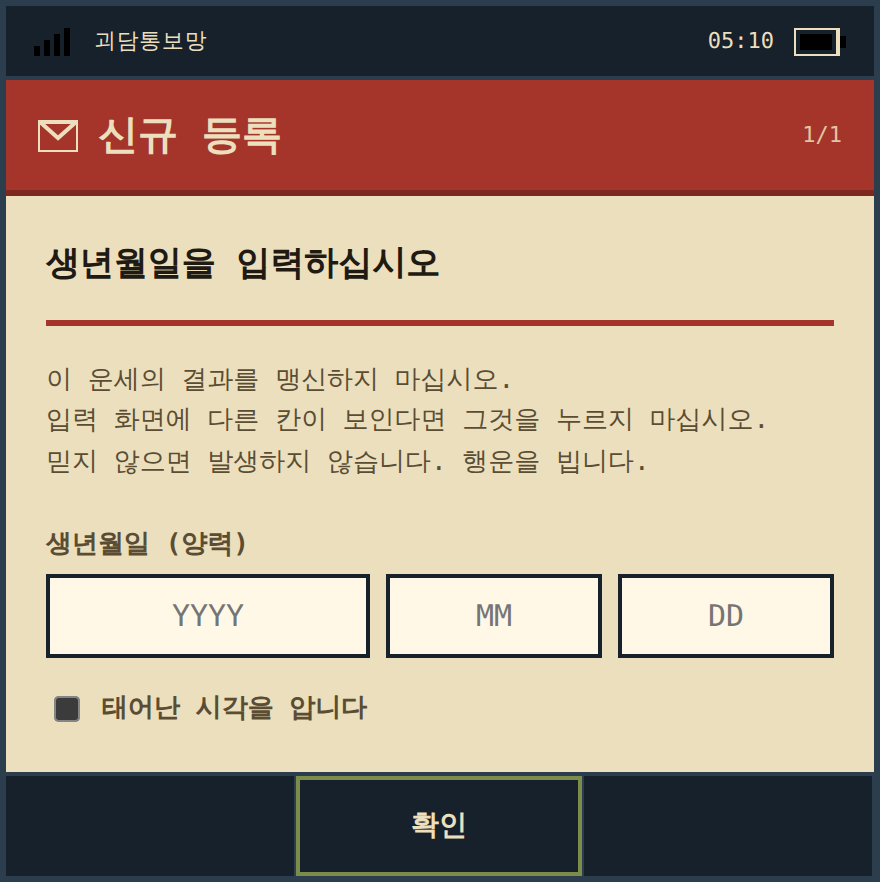
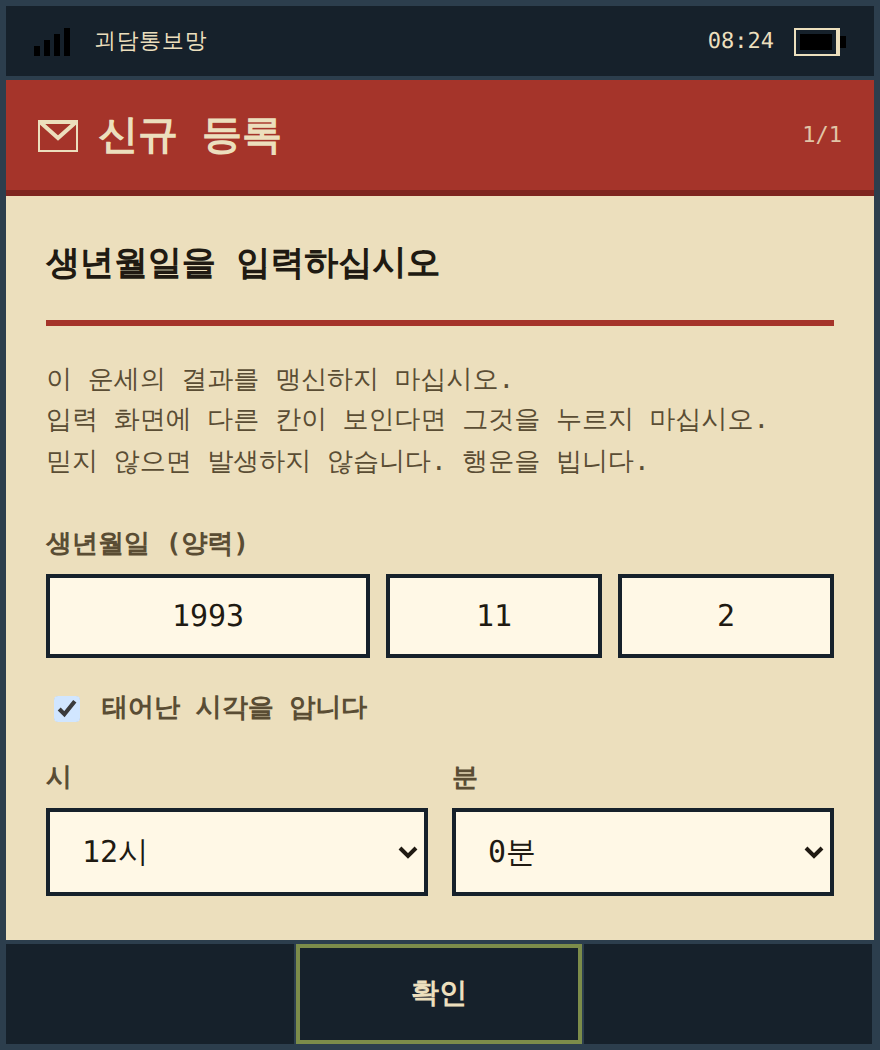
fix(creepypasta-story): 이미지 크기·순서 조정, 이스터에그 밝기 보정
- "운세를 괴담의 규칙으로" annotation 이미지가 너무 커서 그리드 폭을
  340px로 고정해 축소
- 히어로 티저 이미지를 키우고, 모바일에서는 CTA 버튼(서비스 보기)
  보다 위에 오도록 grid-template-areas로 순서 재배치
  (버튼을 .creepy-hero-copy 밖으로 꺼내 별도 grid 영역으로 분리)
- 입력 화면 스크린샷을 "태어난 시각을 압니다" 체크 상태로 다시
  캡처 — 시/분 선택 UI가 실제로 보이게 하고 캡션 내용과 화면을
  일치시킴 (부수 효과로 세로 길이도 늘어남)
- 이스터에그 스크린샷 재캡처: 이전 캡처가 실제 앱의 2초 페이드인
  애니메이션 도중(약 0.6초 시점)에 찍혀 있어 텍스트가 어둡게
  나왔던 버그를 발견해 수정. 애니메이션이 끝난 뒤 캡처하니 실제
  색상(#eee)이 나옴 — 여기에 더해 제작기 페이지에서만
  filter:brightness(1.2)를 얹어 카드에서 더 잘 보이도록 함
  (실제 서비스 코드는 변경 없음)
- 같은 캡처를 세로로 더 길게 잘라 입력·결과 화면과 카드 높이가
  비슷해지도록 조정

diff --git a/assets/creepypasta-story.css b/assets/creepypasta-story.css
@@ -3,13 +3,18 @@
    ============================================================ */
 
 .main #creepyIntro { padding-top: 72px; padding-bottom: 84px; }
-.creepy-hero { display:grid; grid-template-columns:minmax(0,1.15fr) minmax(260px,.85fr); gap:40px; align-items:center; }
-.creepy-hero-copy { max-width:640px; }
+.creepy-hero {
+  display:grid;
+  grid-template-columns:minmax(0,1fr) minmax(300px,1fr);
+  grid-template-areas:"copy teaser" "actions teaser";
+  gap:16px 40px; align-items:center;
+}
+.creepy-hero-copy { grid-area:copy; max-width:640px; }
+.creepy-hero-actions { grid-area:actions; margin-top:14px; }
 body[data-page="creepypasta"] .hero-sub { max-width:600px; }
 .creepy-hero-copy .hero-title { margin-top:14px; font-size:clamp(42px,3.8vw,60px); line-height:1.08; }
 .creepy-kicker { font-size:clamp(22px,2.3vw,31px); font-weight:800; line-height:1.4; letter-spacing:-.03em; }
-.creepy-hero-actions { margin-top:30px; }
-.creepy-hero-teaser { border-radius:20px; overflow:hidden; box-shadow:0 24px 50px rgba(25,31,31,.16); transform:rotate(1deg); }
+.creepy-hero-teaser { grid-area:teaser; border-radius:20px; overflow:hidden; box-shadow:0 24px 50px rgba(25,31,31,.16); transform:rotate(1deg); }
 .creepy-hero-teaser img { width:100%; display:block; }
 
 .creepy-section-lead { margin-top:16px; max-width:920px; font-size:clamp(22px,2.2vw,30px); font-weight:800; line-height:1.45; letter-spacing:-.03em; }
@@ -22,8 +27,8 @@ body[data-page="creepypasta"] .hero-sub { max-width:600px; }
 .creepy-flow p,.creepy-ai-grid p { margin-top:10px; color:var(--ink-soft); font-size:14px; line-height:1.7; }
 
 /* 운세를 괴담의 규칙으로: 실제 화면에 번호를 얹어 설명 */
-.creepy-annotated { display:grid; grid-template-columns:minmax(0,.62fr) minmax(0,.38fr); gap:32px; margin-top:36px; align-items:start; }
-.creepy-annotated-media { position:relative; border-radius:var(--radius); overflow:hidden; border:1px solid var(--line); }
+.creepy-annotated { display:grid; grid-template-columns:minmax(0,340px) 1fr; gap:36px; margin-top:36px; align-items:start; }
+.creepy-annotated-media { position:relative; max-width:340px; border-radius:var(--radius); overflow:hidden; border:1px solid var(--line); }
 .creepy-annotated-media img { width:100%; display:block; }
 .creepy-pin {
   position:absolute; left:3.5%; transform:translate(-50%,-50%);
@@ -52,8 +57,11 @@ body[data-page="creepypasta"] .hero-sub { max-width:600px; }
 
 .creepy-screens-grid { display:grid; grid-template-columns:repeat(3,minmax(0,1fr)); gap:20px; margin-top:36px; align-items:stretch; }
 .creepy-screen-card { display:flex; flex-direction:column; background:var(--paper); border-radius:var(--radius); overflow:hidden; }
-.creepy-screen-media { display:flex; align-items:center; justify-content:center; height:440px; padding:20px; background:var(--bg); border:1px solid var(--line); box-sizing:border-box; }
+.creepy-screen-media { display:flex; align-items:center; justify-content:center; height:480px; padding:20px; background:var(--bg); border:1px solid var(--line); box-sizing:border-box; }
 .creepy-screen-media img { max-width:100%; max-height:100%; width:auto; height:auto; display:block; border-radius:14px; box-shadow:0 16px 32px rgba(25,31,31,.14); }
+/* 실제 앱은 이스터에그 문구를 어둡게 페이드인시키지만, 이 요약 카드에서는
+   문구가 바로 눈에 들어와야 하므로 이 페이지에서만 밝기를 살짝 올린다. */
+.creepy-screen-card--egg .creepy-screen-media img { filter:brightness(1.2); }
 .creepy-screen-card figcaption { flex:1; padding:16px 18px 20px; }
 .creepy-screen-card figcaption strong { display:block; margin-bottom:6px; font-size:15px; }
 .creepy-screen-card figcaption span { display:block; color:var(--ink-soft); font-size:13px; line-height:1.6; }
@@ -72,11 +80,15 @@ body[data-page="creepypasta"] .hero-sub { max-width:600px; }
 .creepy-cta p { color:rgba(255,255,255,.75); }
 
 @media (max-width:960px) {
-  .creepy-hero { grid-template-columns:1fr; }
+  .creepy-hero {
+    grid-template-columns:1fr;
+    grid-template-areas:"copy" "teaser" "actions";
+  }
   .creepy-hero-copy { max-width:none; }
-  .creepy-hero-teaser { max-width:420px; }
+  .creepy-hero-teaser { max-width:460px; margin-top:8px; }
   .creepy-flow,.creepy-ai-grid { grid-template-columns:repeat(2,minmax(0,1fr)); }
   .creepy-annotated { grid-template-columns:1fr; }
+  .creepy-annotated-media { max-width:420px; margin:0 auto; }
   .creepy-screens-grid { grid-template-columns:repeat(2,minmax(0,1fr)); }
 }
 @media (max-width:720px) {

diff --git a/creepypasta-story.html b/creepypasta-story.html
@@ -34,12 +34,12 @@
           <p class="creepy-kicker">‘괴담이 요즘 유행인데, 하나 만들어볼까’라는 생각에서 시작했습니다.</p>
           <h1 class="hero-title">괴담통보망 제작기</h1>
           <p class="hero-sub">괴담을 한 번 읽고 끝나는 콘텐츠가 아니라, 오늘의 운세처럼 다시 찾아보게 만들 수 있을지 궁금했습니다. 그렇게 생년월일과 오늘 날짜에 따라 다른 괴담이 도착하는 서비스를 만들었습니다.</p>
-          <div class="cta-actions creepy-hero-actions">
-            <a class="btn btn-mint" href="https://rhleka.xyz" target="_blank" rel="noopener" data-track="cta" data-track-id="creepypasta_service_top" data-track-location="creepypasta_intro">서비스 보기 <span class="arrow">→</span></a>
-          </div>
         </div>
         <div class="creepy-hero-teaser">
           <img src="assets/creepypasta-hero-teaser.png" alt="괴담통보망 오늘의 통보문 헤드라인 예시" loading="lazy" />
+        </div>
+        <div class="cta-actions creepy-hero-actions">
+          <a class="btn btn-mint" href="https://rhleka.xyz" target="_blank" rel="noopener" data-track="cta" data-track-id="creepypasta_service_top" data-track-location="creepypasta_intro">서비스 보기 <span class="arrow">→</span></a>
         </div>
       </section>
 
@@ -94,7 +94,7 @@
             <div class="creepy-screen-media"><img src="assets/creepypasta-screen-result.png" alt="괴담통보망 오늘의 통보문 결과 화면" loading="lazy" /></div>
             <figcaption><strong>오늘의 통보문</strong><span>오늘의 징조와 금기, 무시해야 할 것들이 한 장의 통보문으로 나타납니다.</span></figcaption>
           </figure>
-          <figure class="creepy-screen-card">
+          <figure class="creepy-screen-card creepy-screen-card--egg">
             <div class="creepy-screen-media"><img src="assets/creepypasta-easter-egg.png" alt="이스터에그 화면: 당신은 올바르지 않은 경로로 접근하였습니다" loading="lazy" /></div>
             <figcaption><strong>이스터에그</strong><span>결과 화면에서 15초 동안 조작이 없으면 100분의 1 확률로, 또는 본 서비스와 도메인만 다른 보조 도메인으로 들어오면 항상 이 화면이 대신 뜹니다.</span></figcaption>
           </figure>
